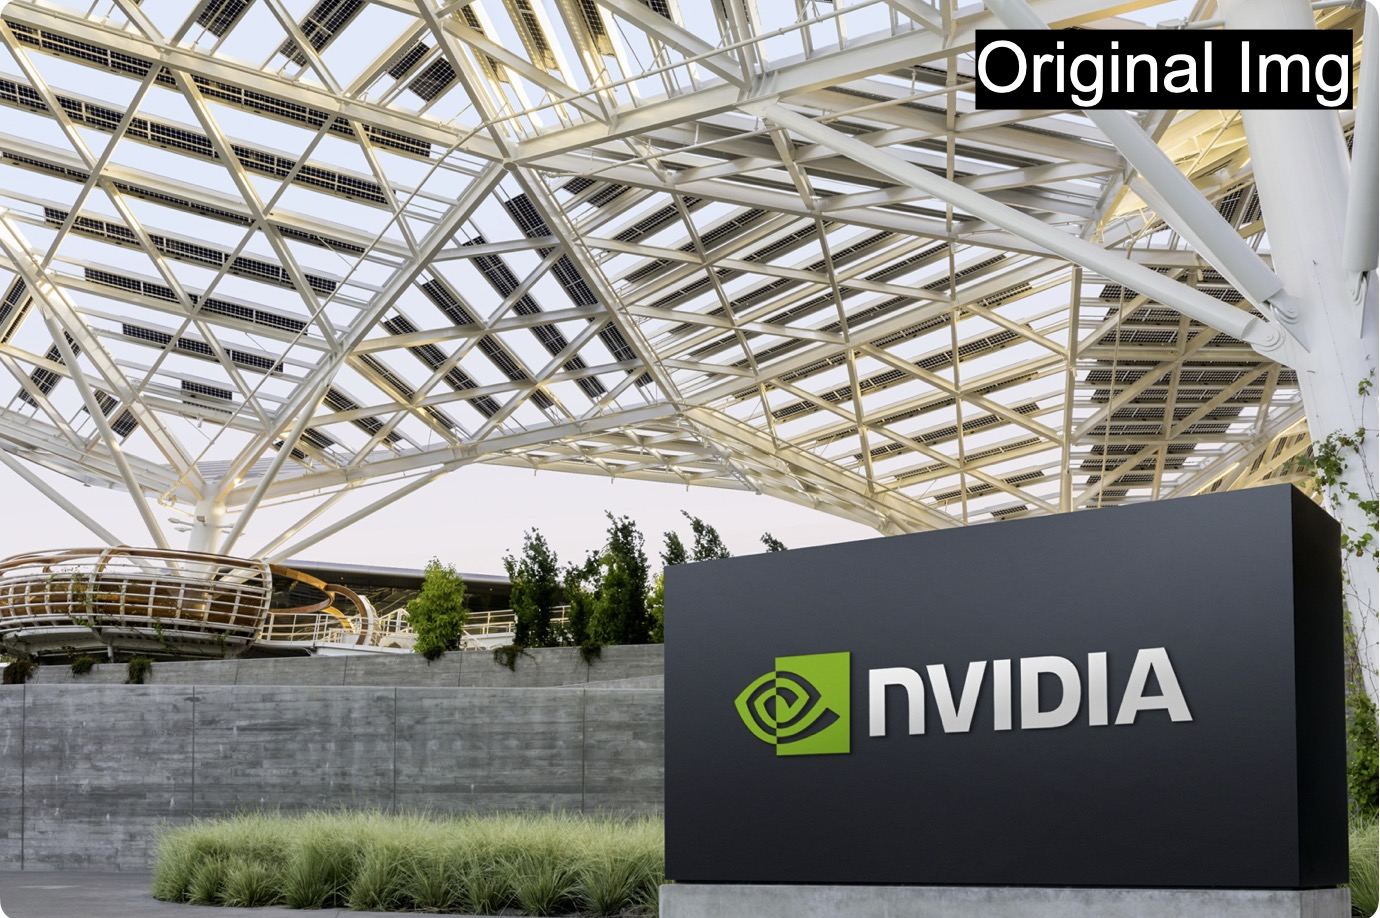
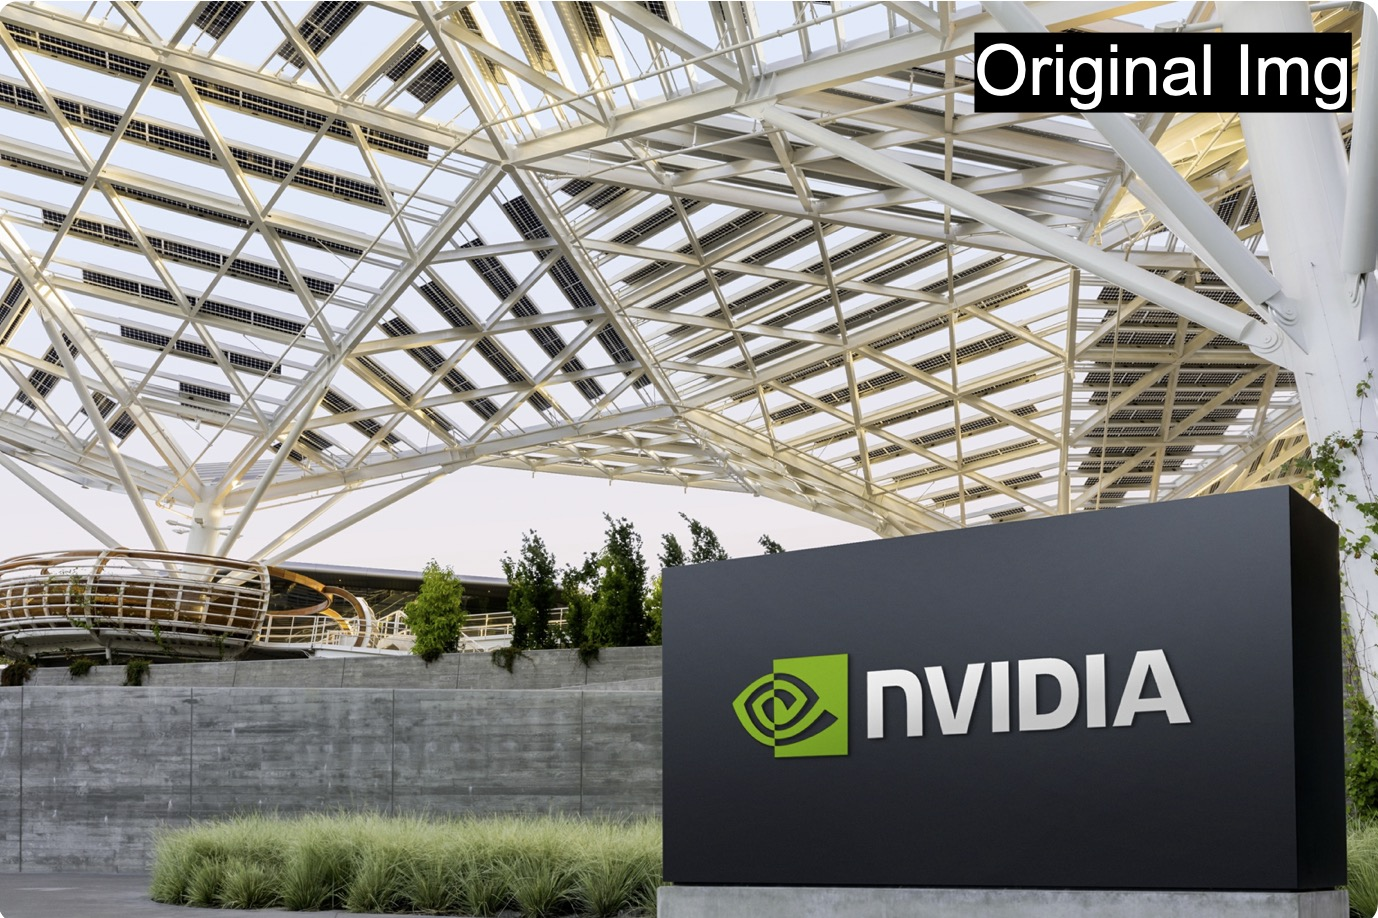
change vae demo aspect;

diff --git a/index.html b/index.html
@@ -438,8 +438,8 @@
                 margin-right: auto;
             }
             .image-comparison-content {
-                max-width: 440px; /* Limit the width to 80% of the screen */
-                max-height: 305px; /* Limit the width to 80% of the screen */
+                max-height: 300px; /* Limit the width to 80% of the screen */
+                max-width: 92%;
             }
             video {
                 max-width: 92%;  /* The video will scale to fit the container */
